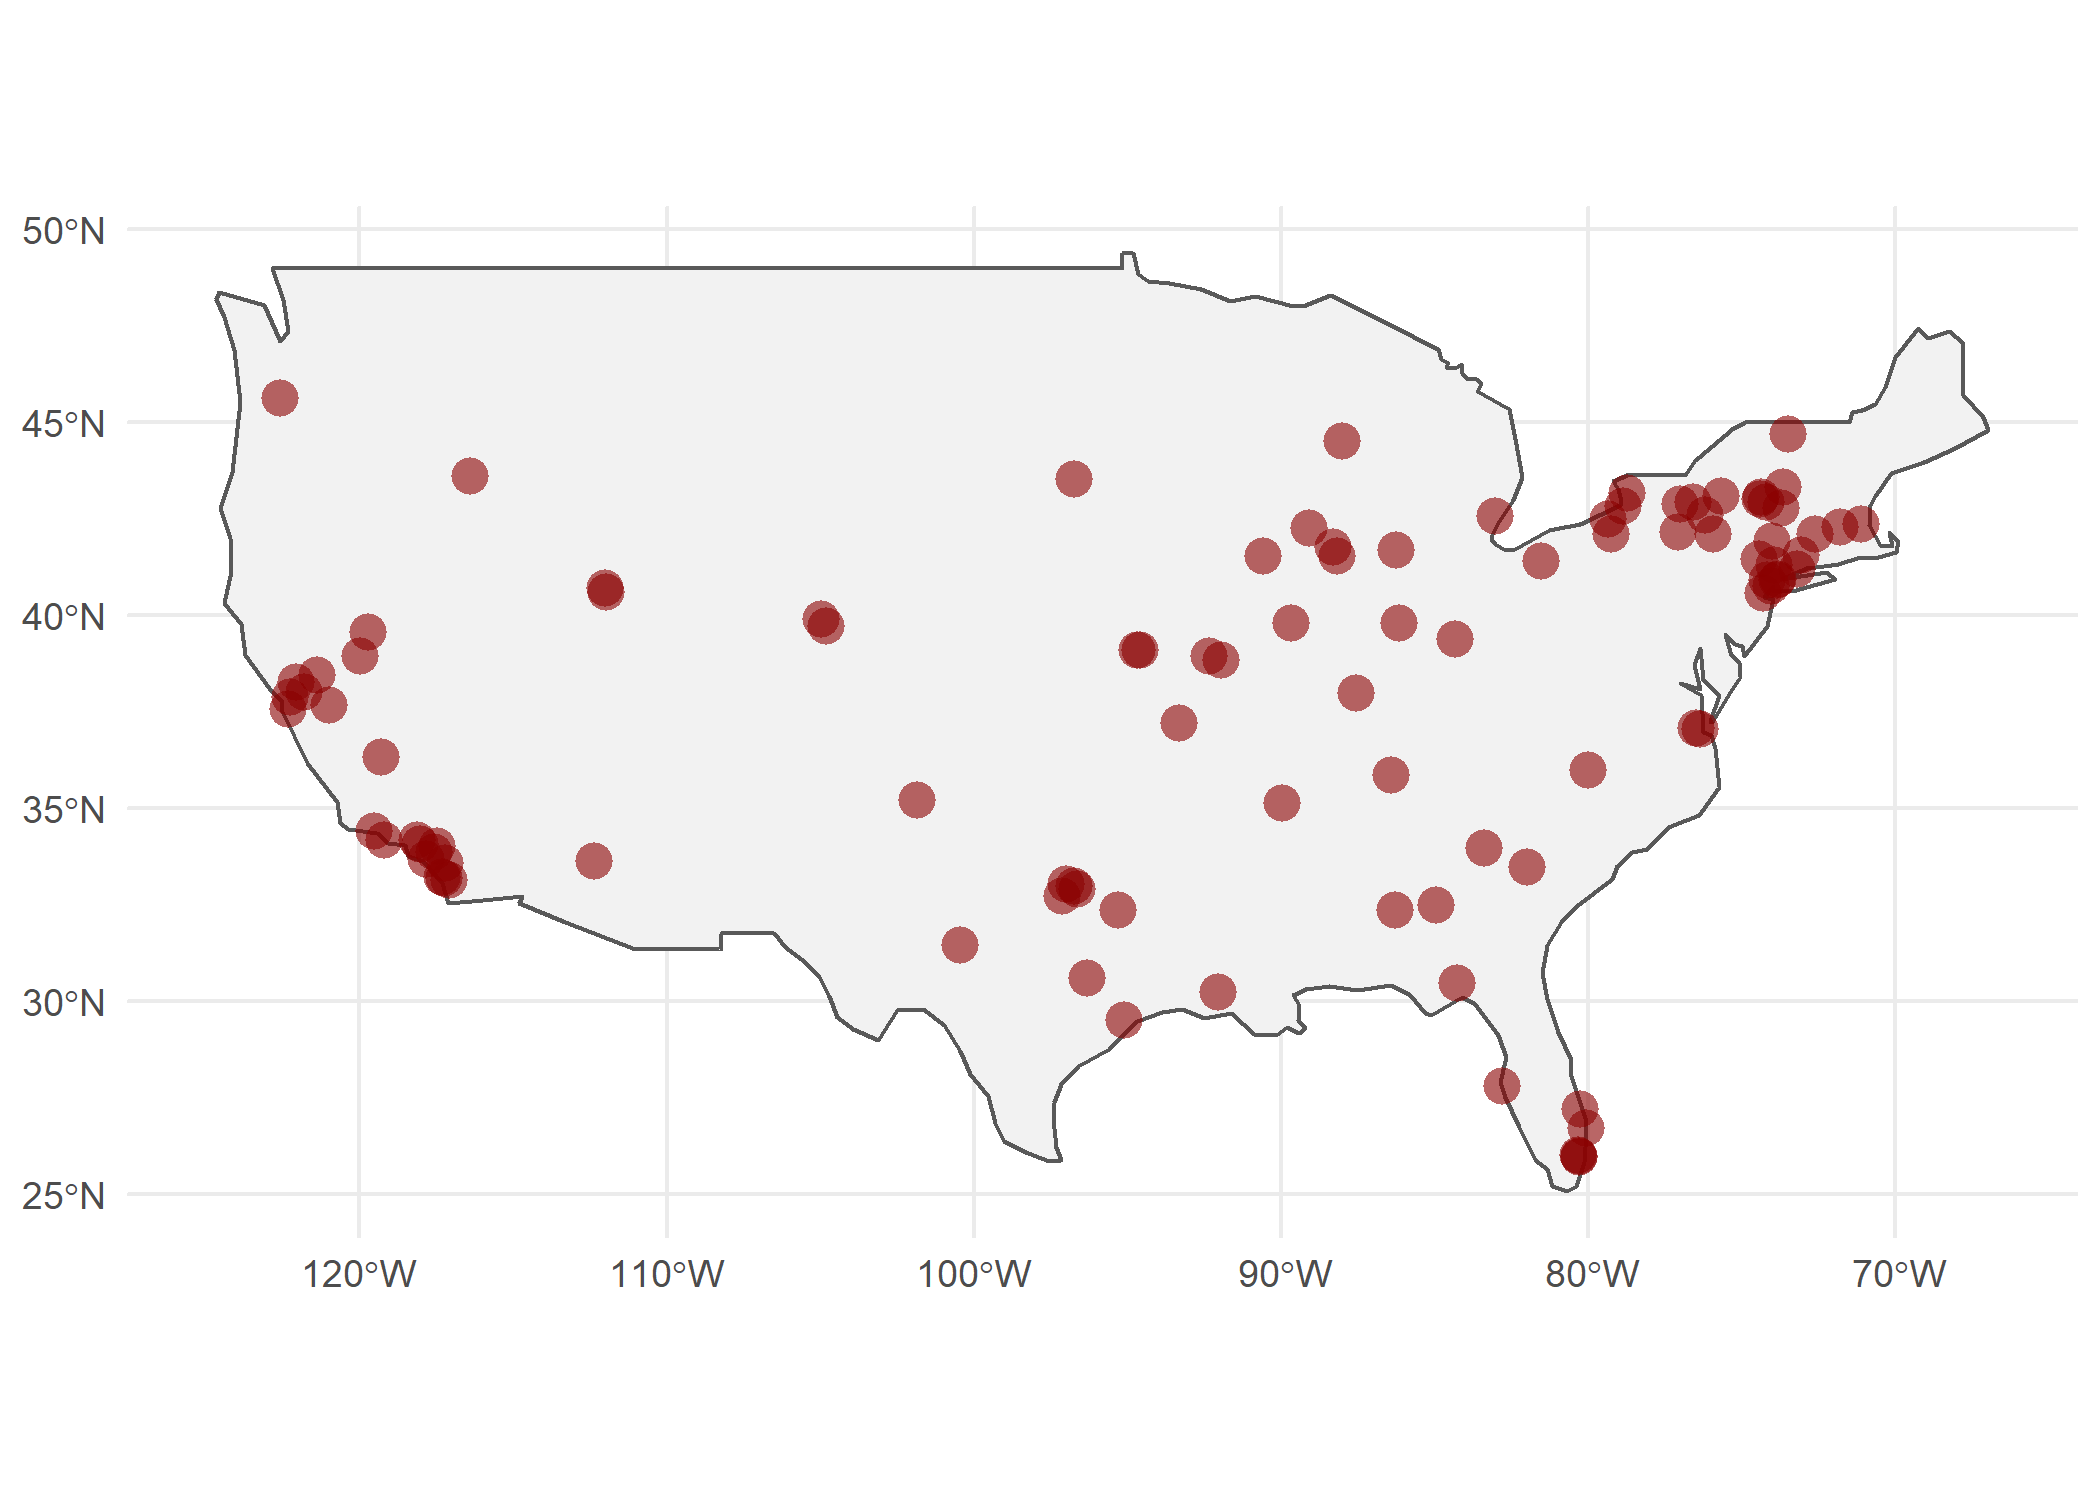
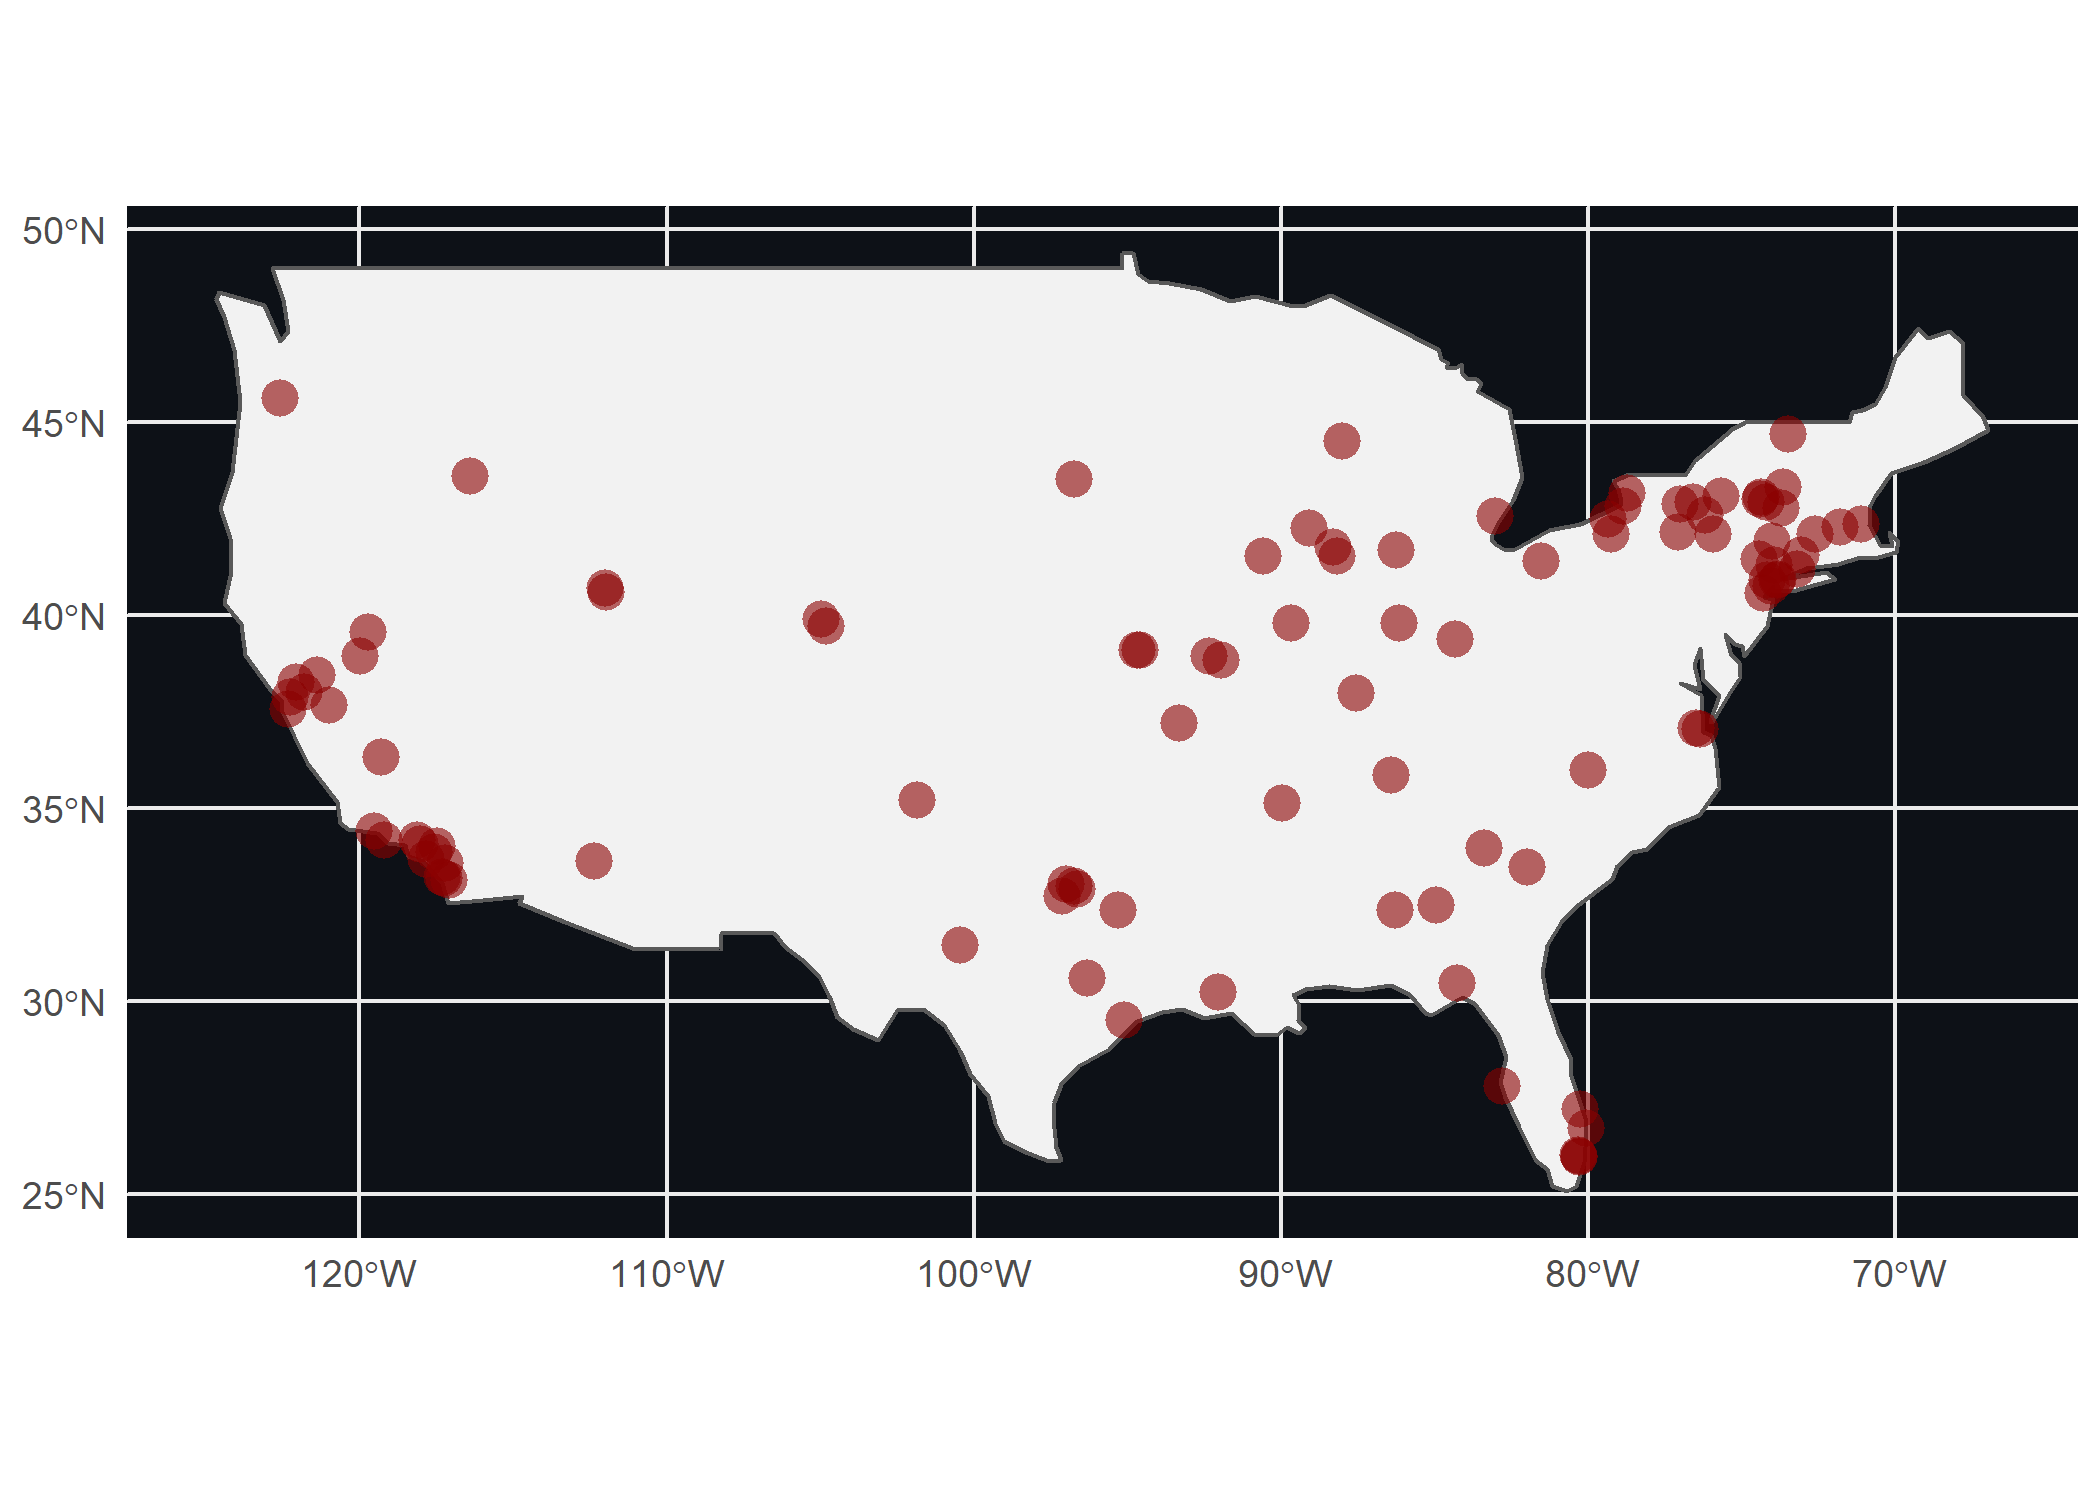
readme

diff --git a/README.md b/README.md
@@ -95,7 +95,9 @@ ggplot() +
           shape = 21,
           fill = "darkred", color = "NA",
           alpha = .6) +
-  theme_minimal()
+  theme_minimal() +
+  theme(panel.background = element_rect(fill = "#0D1117",
+                                        color = "#0D1117"))
 ```
 
 <img src="man/figures/README-unnamed-chunk-2-1.png" width="75%" style="display: block; margin: auto;" />
